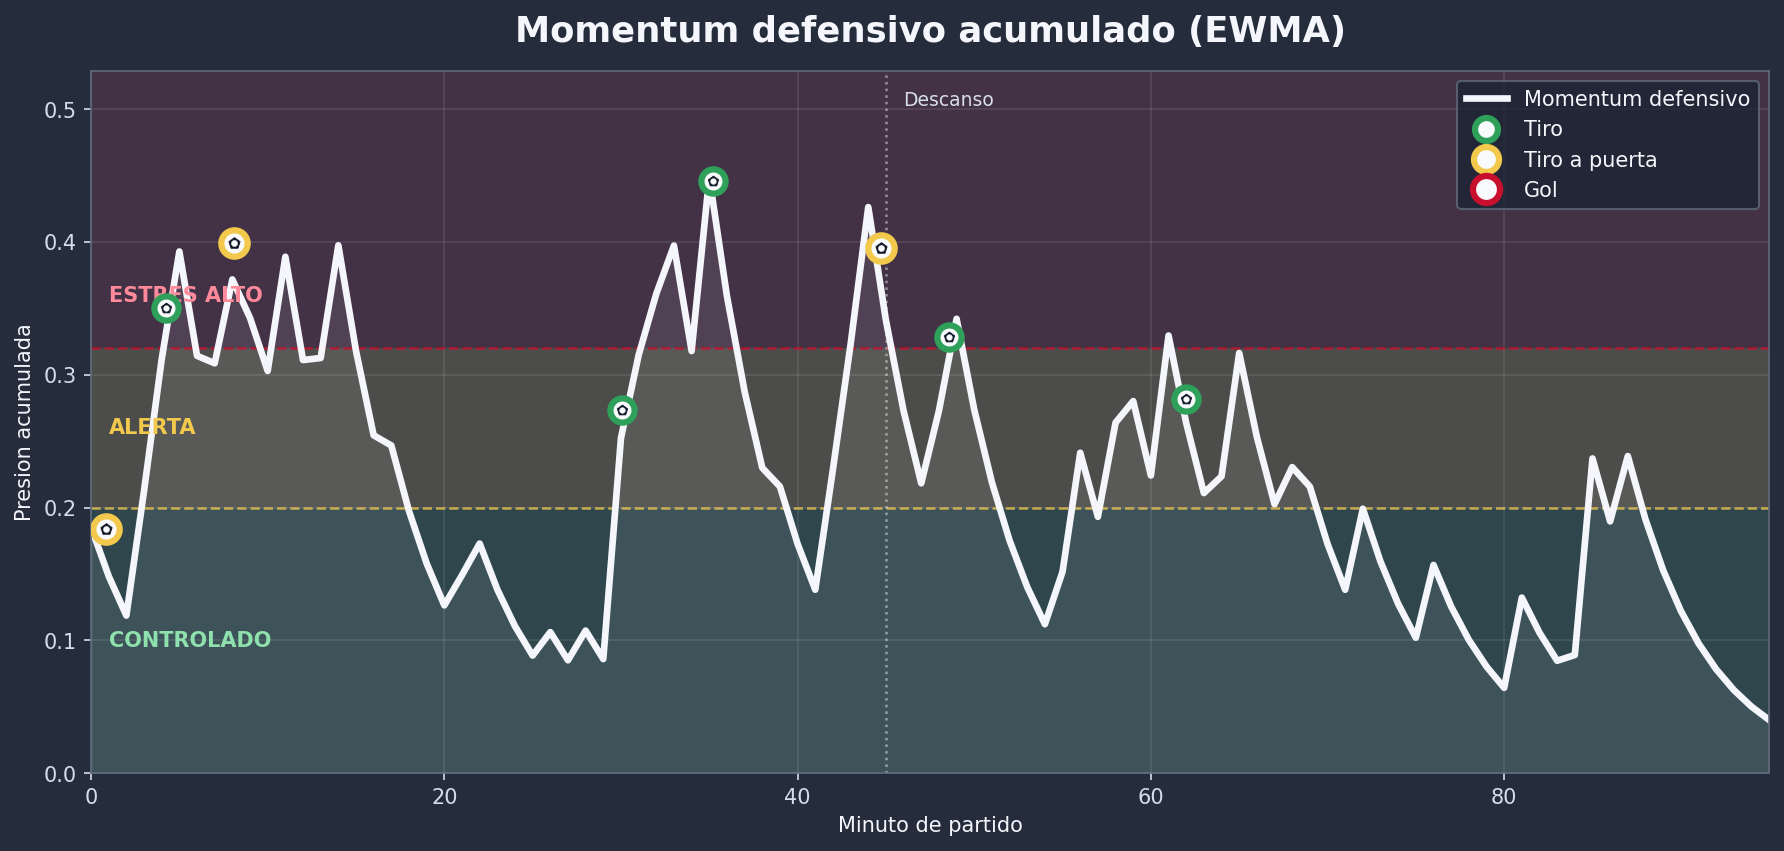
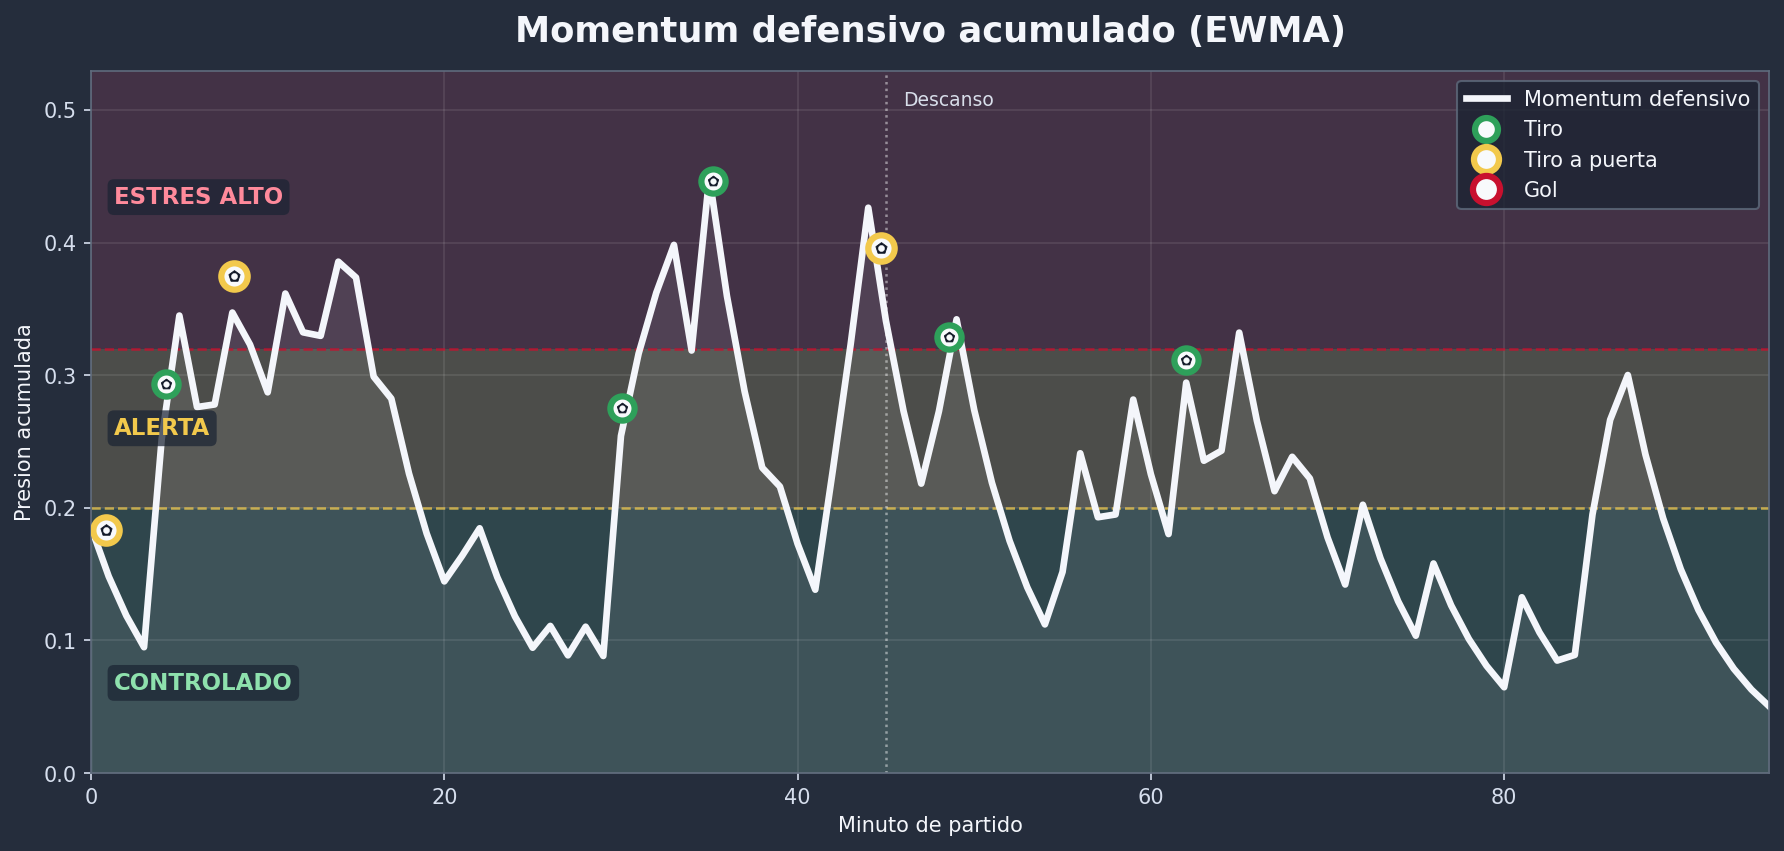
Improve momentum zone labels

diff --git a/src/tfg_analysis/visualization/dashboard.py b/src/tfg_analysis/visualization/dashboard.py
@@ -382,9 +382,15 @@ def plot_evolucion_temporal_con_tiros(df_def_dinamico: pd.DataFrame, secuencias:
         _draw_ball_events(df[shot_mask].copy(), "#2ea05a", 135, 0.018)
         _draw_ball_events(df[shot_on_target_mask].copy(), "#f2c94c", 160, 0.030)
         _draw_ball_events(df[goal_mask].copy(), "#c8102e", 190, 0.042)
-    ax.text(1, MOMENTUM_ALERT_THRESHOLD / 2, "CONTROLADO", color="#8ee1ad", fontsize=10, weight="bold", va="center")
-    ax.text(1, (MOMENTUM_ALERT_THRESHOLD + MOMENTUM_STRESS_THRESHOLD) / 2, "ALERTA", color="#f2c94c", fontsize=10, weight="bold", va="center")
-    ax.text(1, min(ymax - 0.02, MOMENTUM_STRESS_THRESHOLD + 0.04), "ESTRES ALTO", color="#ff8a9b", fontsize=10, weight="bold", va="center")
+    label_box = {
+        "boxstyle": "round,pad=0.28",
+        "facecolor": "#1b2433",
+        "edgecolor": "none",
+        "alpha": 0.72,
+    }
+    ax.text(1.3, MOMENTUM_ALERT_THRESHOLD * 0.34, "CONTROLADO", color="#8ee1ad", fontsize=11, weight="black", va="center", bbox=label_box)
+    ax.text(1.3, (MOMENTUM_ALERT_THRESHOLD + MOMENTUM_STRESS_THRESHOLD) / 2, "ALERTA", color="#f2c94c", fontsize=11, weight="black", va="center", bbox=label_box)
+    ax.text(1.3, min(ymax - 0.035, max(MOMENTUM_STRESS_THRESHOLD + 0.075, ymax * 0.82)), "ESTRES ALTO", color="#ff8a9b", fontsize=11, weight="black", va="center", bbox=label_box)
     ax.axvline(45, color="white", linestyle=":", lw=1.2, alpha=0.45)
     ax.text(46, ymax * 0.95, "Descanso", color="#d8deea", fontsize=9)
     ax.set_xlim(0, int(timeline["minuto"].max()))
